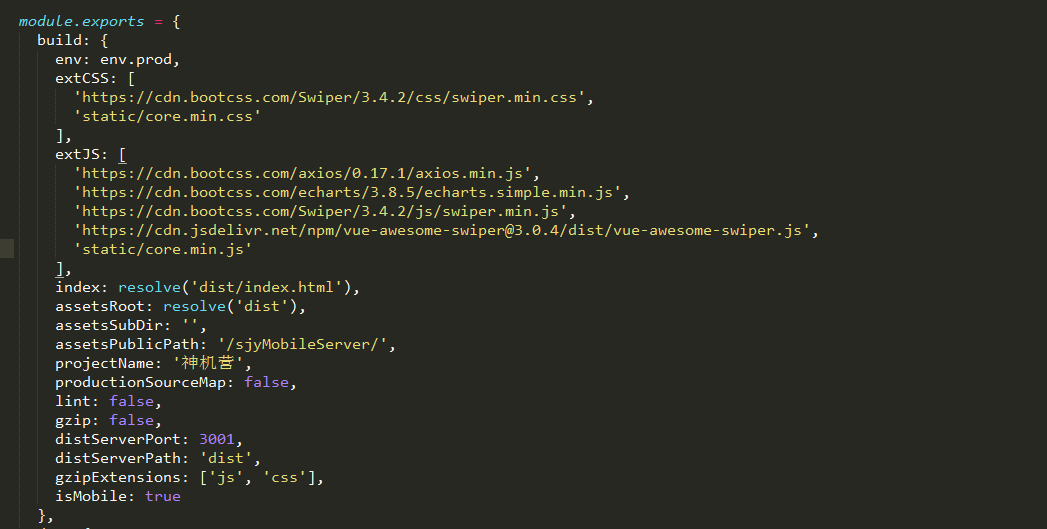
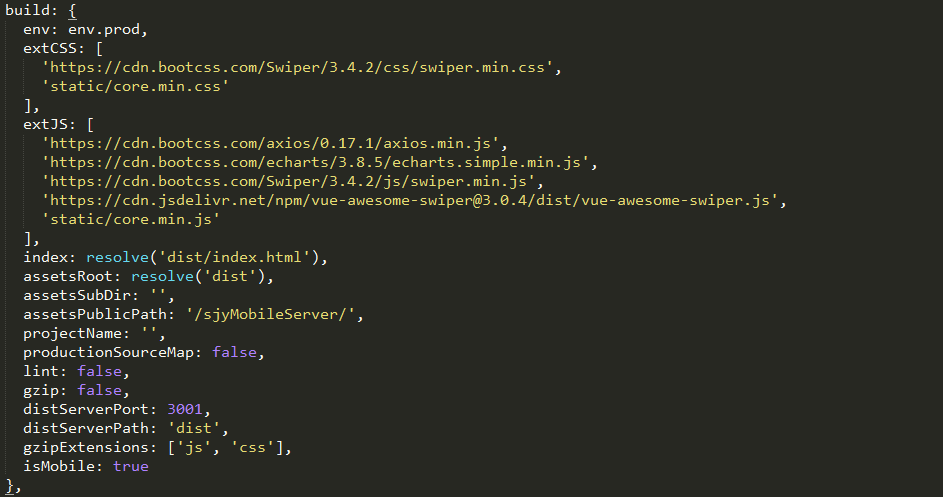
环境配置文档修改

Changed region(s): [[0.0, 0.0, 0.8303, 0.4829], [0.0, 0.4829, 0.369, 0.996]]

diff --git a/doc/Article-1_2.md b/doc/Article-1_2.md
@@ -5,86 +5,86 @@
 2. 由于npm仓库是国外服务器这里推荐利用淘宝npm镜像安装相关依赖。淘宝镜像地址： http://npm.taobao.org/ 
     1. 在cmd里面直接输入： npm install -g cnpm --registry=https://registry.npm.taobao.org  
 
-        ![cnpm](images/cnpm.png)
+    ![cnpm](images/cnpm.png)
 
 3. 获取开发框架
 
 4. 安装依赖包
     1. cd切换到项目目录
     2. 在cmd中输入cnpm install (如果出现安装失败的情况，建议将项目目录文件夹中的node_modules文件夹删除后，重新运行 cnpm install 命令进行安装，确保所有依赖包能够一次性安装成功。)
-
     ![安装依赖](images/npm-install.png)
-
     ![安装依赖](images/npm-install_b.png)
 
     安装完成之后，会在我们的项目目录文件夹中多出一个node_modules文件夹，这里边就是我们项目需要的依赖包资源。
 
-    安装后的文件目录为
-
+    安装后的文件目录为：
     ![安装依赖完成后](images/node_modules.png)
 
 5. 修改一些基本配置
-
     配置文件目录（settings下的core.js）：
-
     ![配置文件目录](images/setting-book.png)
 
     配置文件分为两部分，dev开发模式，build生产模式
 
-    ### dev中的参数如下：
+> #### dev中的参数如下：
 
-    ![开发配置](images/dev-img.png)
+> ![开发配置](images/dev-img.png)
 
-    | 属性 | 含义 | 值 | 建议 |
-    | ---|:---:|:---:|:---:|
-    | extCSS | 外部css地址(主要为第三方样式文件) | '' | 根据需要自动设置cdn外联样式 |
-    | extJS | 外部js地址(比如echart，axios等第三方库) | '' | 根据需要自动设置cdn外联样式 |
-    | port | 端口 | 5000 | 根据需要自动设置 |
-    | autoOpenBrowser | 是否自动打开浏览器 | true | 不建议 |
-    | projectName | 浏览器中的显示名 | '神机营' | 根据需要自动设置 |
-    | assetsSubDir | 静态资源放在文件夹 | 'static' | 根据需要自动设置 |
-    | assetsPublicPath | 发布路径 | '' | 根据需要自动设置 |
-    | proxyTable | 代理配置表,在这里可以配置特定的请求代理到对应的API接口 | '/sjyMobileServer/' | 按后台接口更改 |
-    | isMobile | 是否是移动端 | true | 按需求更改 |
-    | cssSourceMap | 是否开启cssSourceMap | true | 不建议 |
+| 属性 | 含义 | 值 | 建议 |
+| ---|:---:|:---:|:---:|
+| extCSS | 外部css地址(主要为第三方样式文件) | '' | 根据需要自动设置cdn外联样式 |
+| extJS | 外部js地址(比如echart，axios等第三方库) | '' | 根据需要自动设置cdn外联样式 |
+| port | 端口 | 5000 | 根据需要自动设置 |
+| autoOpenBrowser | 是否自动打开浏览器 | true | 不建议 |
+| projectName | 浏览器中的显示名 | '' | 根据需要自动设置 |
+| assetsSubDir | 静态资源放在文件夹 | 'static' | 根据需要自动设置 |
+| assetsPublicPath | 发布路径 | '' | 根据需要自动设置 |
+| proxyTable | 代理配置表,在这里可以配置特定的请求代理到对应的API接口 | '/sjyMobileServer/' | 按后台接口更改 |
+| isMobile | 是否是移动端 | true | 按需求更改 |
+| cssSourceMap | 是否开启cssSourceMap | true | 不建议 |
 
-    ### build中的参数如下：
+> #### build中的参数如下：
 
-    ![打包配置](images/build-img.png)
+> ![打包配置](images/build-img.png)
 
-    | 属性 | 含义 | 值 | 建议 |
-    | ---|:---:|:---:|:---:|
-    | extCSS | 外部css地址(主要为第三方样式文件) | '' | 根据需要自动设置cdn外联样式 |
-    | extJS | 外部js地址(比如echart，axios等第三方库) | '' | 根据需要自动设置cdn外联样式 |
-    | index | html入口文件 | path.resolve(__dirname, '../dist/index.html') | 不建议 |
-    | assetsRoot | 产品文件的存放路径 | path.resolve(__dirname, '../dist') | 不建议 |
-    | assetsSubDir | 静态资源放在文件夹 | 'static' | 根据需要自动设置 |
-    | assetsPublicPath | 发布路径 | '' | 根据需要自动设置 |
-    | projectName | 浏览器中的显示名 | '神机营' | 根据需要自动设置 |
-    | productionSourceMap | 是否使用source-map | false | 不建议 |
-    | lint | 是否开启语法验证 | true | 不建议 |
-    | gzip | 是否开启gzip压缩 | false | 不建议 |
-    | isMobile | 是否是移动端 | true | 按需求更改 |
+| 属性 | 含义 | 值 | 建议 |
+| ---|:---:|:---:|:---:|
+| extCSS | 外部css地址(主要为第三方样式文件) | '' | 根据需要自动设置cdn外联样式 |
+| extJS | 外部js地址(比如echart，axios等第三方库) | '' | 根据需要自动设置cdn外联样式 |
+| index | html入口文件 | path.resolve(__dirname, '../dist/index.html') | 不建议 |
+| assetsRoot | 产品文件的存放路径 | path.resolve(__dirname, '../dist') | 不建议 |
+| assetsSubDir | 静态资源放在文件夹 | 'static' | 根据需要自动设置 |
+| assetsPublicPath | 发布路径 | '' | 根据需要自动设置 |
+| projectName | 浏览器中的显示名 | '' | 根据需要自动设置 |
+| productionSourceMap | 是否使用source-map | false | 不建议 |
+| lint | 是否开启语法验证 | true | 不建议 |
+| gzip | 是否开启gzip压缩 | false | 不建议 |
+| isMobile | 是否是移动端 | true | 按需求更改 |
 
-    > 当引入外部js时，比如引入jquery时，在extJS中设置jquery的cdn地址，需要在src目录下新建.eslintrc文件配置globals属性为{$: true},然后在vue文件中就可以直接使用$,跟平常页面中使用一样。形式如下：
-    ![eslintrc](images/eslintrc.png)
+> 当引入外部js时，比如引入jquery时，在extJS中设置jquery的cdn地址如图：
 
-    ### 图片的配置
+> ![jquery](images/jquery.png)
 
-    设置图片的大小，当小于设置值时，图片会被转成base64在也页面中显示。配置文件在config文件夹中的webpack.base.js中：
+> 如果我们不配做.eslintrc文件直接在vue文件中使用$这页面会提示错误如图:
 
-    ![图片配置](images/setting-img.png)
+> ![jquery](images/error.png)
 
-    ### 文件夹别名配置
-    设置文件夹的别名。配置文件在config文件夹中的webpack.base.js中：
+> 当我们在src目录下新建.eslintrc文件配置globals属性为{$: true}后页面运行成功,$不在提示错误。配置如下：
 
-    ![别名配置](images/bie-name.png)
-    > 设置别名后，引用方式进行修改有原先的import 'src/api/Home/api'调整为import '@/api/Home/api'。
+> ![eslintrc](images/eslintrc.png)
 
+> 图片的配置
 
+> 设置图片的大小，当小于设置值时，图片会被转成base64在也页面中显示。配置文件在config文件夹中的webpack.base.js中：
 
-6. 完成基本配置和依赖安装后测试环境是否成功
-    1. 在cmd中输入npm run dev 控制台未报错且浏览器中页面正常显示即项目运行成功
+> ![图片配置](images/setting-img.png)
+
+> 文件夹别名配置
+> 设置文件夹的别名。配置文件在config文件夹中的webpack.base.js中：
+
+> ![别名配置](images/bie-name.png)
+> 设置别名后，引用方式进行修改有原先的import 'src/api/Home/api'调整为import '@/api/Home/api'。
+
+### 完成基本配置和依赖安装后测试环境是否成功
+> 在cmd中输入npm run dev 控制台未报错且浏览器中页面正常显示即项目运行成功
     ![运行结构](images/run-dev.png)
-
-
